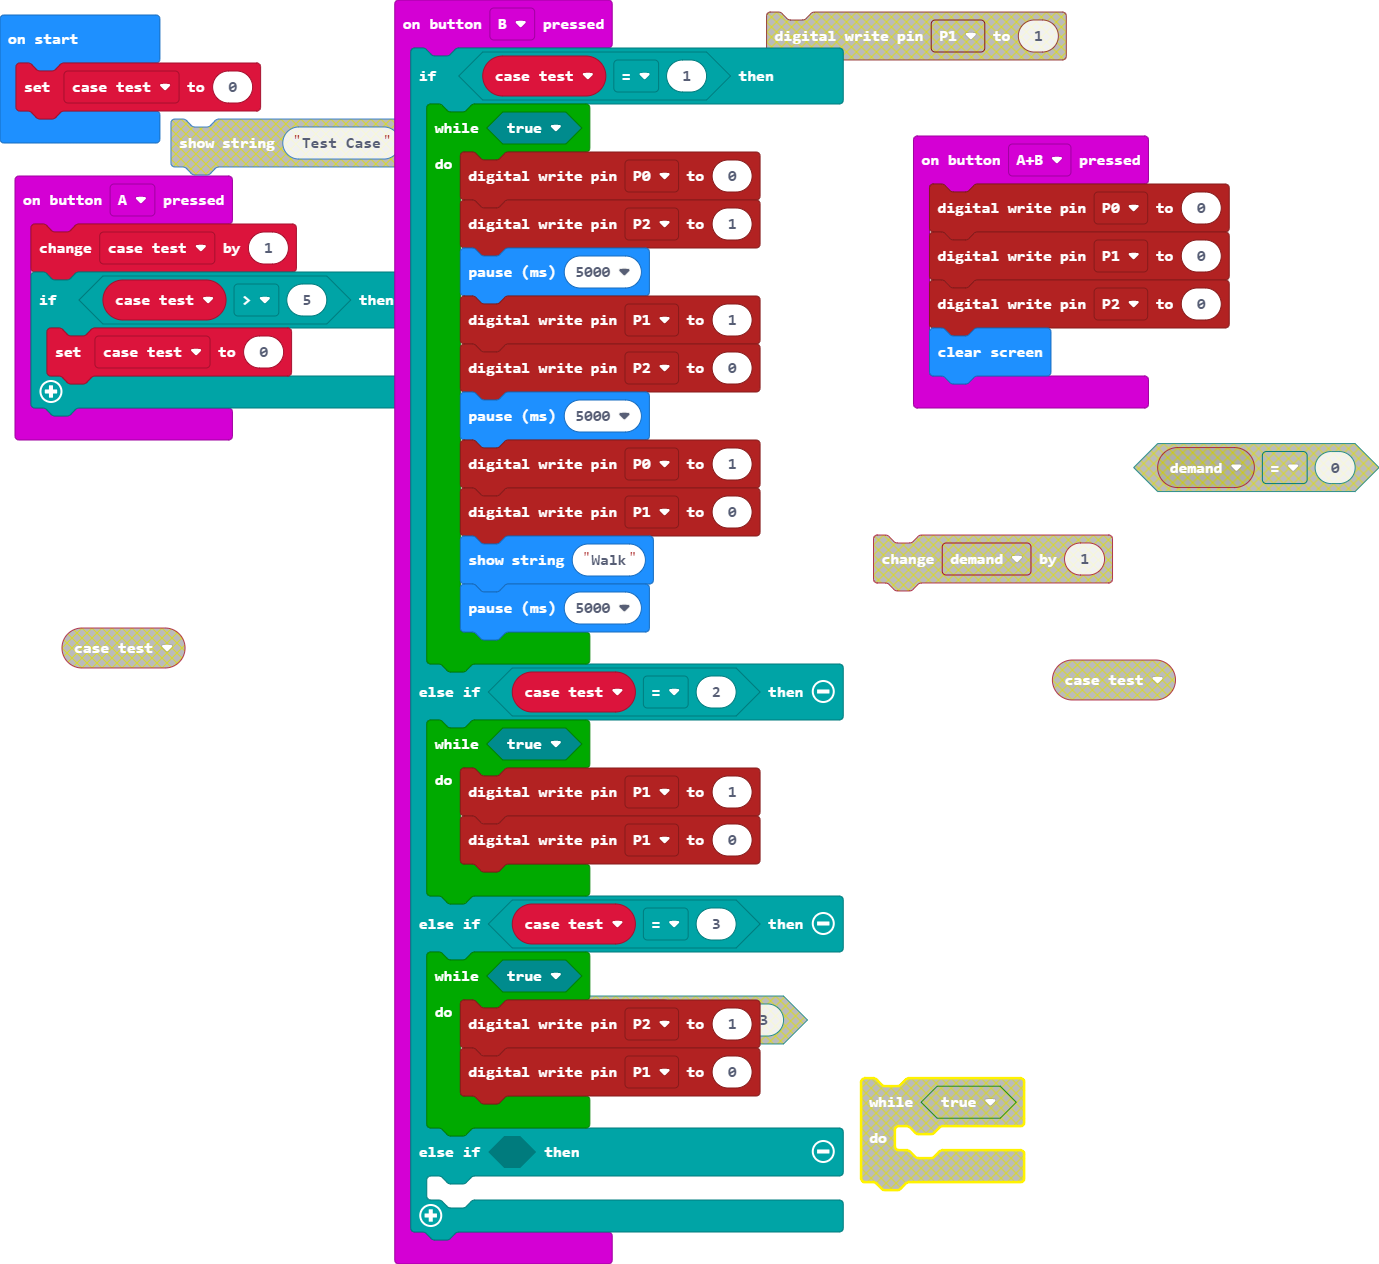
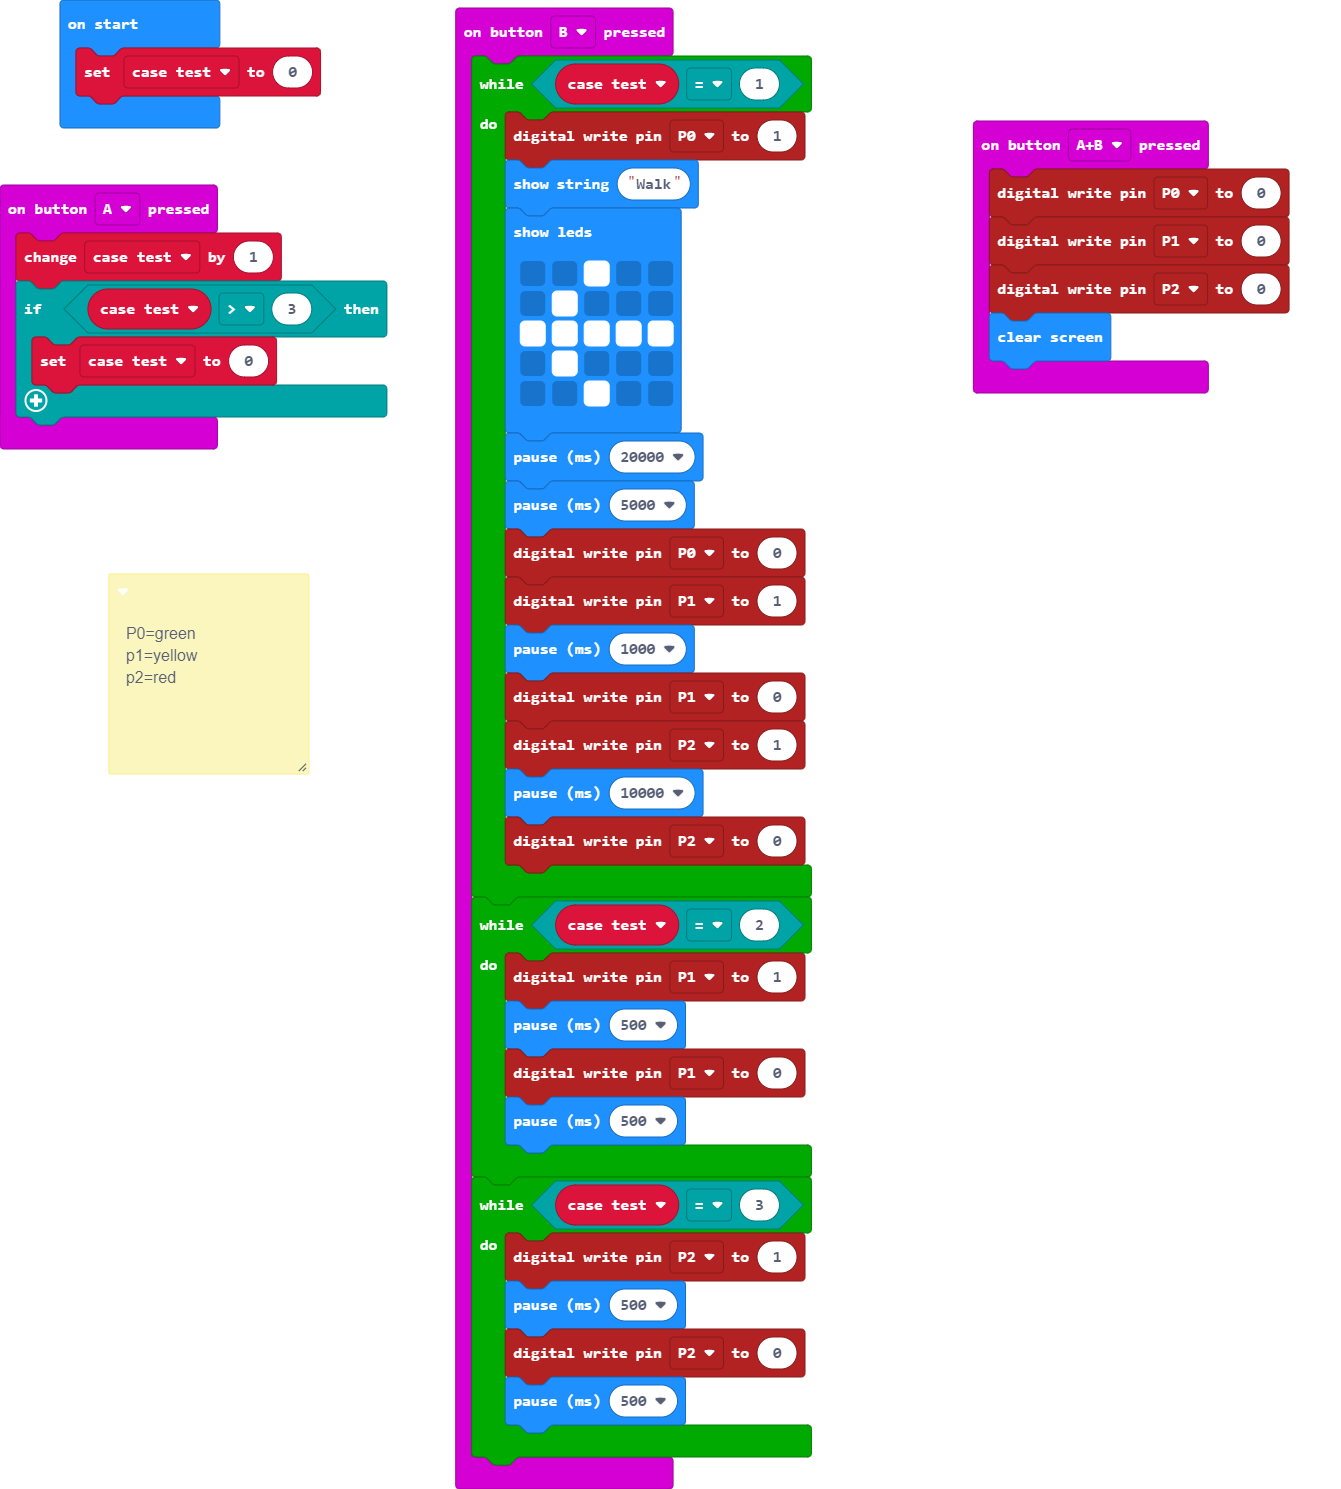
Update pxt.json, main.blocks, main.ts, main.py

diff --git a/main.ts b/main.ts
@@ -1,6 +1,13 @@
+/**
+ * P0=green
+ * 
+ * p1=yellow
+ * 
+ * p2=red
+ */
 input.onButtonPressed(Button.A, function () {
     case_test += 1
-    if (case_test > 5) {
+    if (case_test > 3) {
         case_test = 0
     }
 })
@@ -11,31 +18,37 @@ input.onButtonPressed(Button.AB, function () {
     basic.clearScreen()
 })
 input.onButtonPressed(Button.B, function () {
-    if (case_test == 1) {
-        while (true) {
-            pins.digitalWritePin(DigitalPin.P0, 0)
-            pins.digitalWritePin(DigitalPin.P2, 1)
-            basic.pause(5000)
-            pins.digitalWritePin(DigitalPin.P1, 1)
-            pins.digitalWritePin(DigitalPin.P2, 0)
-            basic.pause(5000)
-            pins.digitalWritePin(DigitalPin.P0, 1)
-            pins.digitalWritePin(DigitalPin.P1, 0)
-            basic.showString("Walk")
-            basic.pause(5000)
-        }
-    } else if (case_test == 2) {
-        while (true) {
-            pins.digitalWritePin(DigitalPin.P1, 1)
-            pins.digitalWritePin(DigitalPin.P1, 0)
-        }
-    } else if (case_test == 3) {
-        while (true) {
-            pins.digitalWritePin(DigitalPin.P2, 1)
-            pins.digitalWritePin(DigitalPin.P1, 0)
-        }
-    } else if (false) {
-    	
+    while (case_test == 1) {
+        pins.digitalWritePin(DigitalPin.P0, 1)
+        basic.showString("Walk")
+        basic.showLeds(`
+            . . # . .
+            . # . . .
+            # # # # #
+            . # . . .
+            . . # . .
+            `)
+        basic.pause(20000)
+        basic.pause(5000)
+        pins.digitalWritePin(DigitalPin.P0, 0)
+        pins.digitalWritePin(DigitalPin.P1, 1)
+        basic.pause(1000)
+        pins.digitalWritePin(DigitalPin.P1, 0)
+        pins.digitalWritePin(DigitalPin.P2, 1)
+        basic.pause(10000)
+        pins.digitalWritePin(DigitalPin.P2, 0)
+    }
+    while (case_test == 2) {
+        pins.digitalWritePin(DigitalPin.P1, 1)
+        basic.pause(500)
+        pins.digitalWritePin(DigitalPin.P1, 0)
+        basic.pause(500)
+    }
+    while (case_test == 3) {
+        pins.digitalWritePin(DigitalPin.P2, 1)
+        basic.pause(500)
+        pins.digitalWritePin(DigitalPin.P2, 0)
+        basic.pause(500)
     }
 })
 let case_test = 0

diff --git a/main.py b/main.py
@@ -1,0 +1,58 @@
+"""
+
+P0=green
+
+p1=yellow
+
+p2=red
+
+"""
+
+def on_button_pressed_a():
+    global case_test
+    case_test += 1
+    if case_test > 3:
+        case_test = 0
+input.on_button_pressed(Button.A, on_button_pressed_a)
+
+def on_button_pressed_ab():
+    pins.digital_write_pin(DigitalPin.P0, 0)
+    pins.digital_write_pin(DigitalPin.P1, 0)
+    pins.digital_write_pin(DigitalPin.P2, 0)
+    basic.clear_screen()
+input.on_button_pressed(Button.AB, on_button_pressed_ab)
+
+def on_button_pressed_b():
+    while case_test == 1:
+        pins.digital_write_pin(DigitalPin.P0, 1)
+        basic.show_string("Walk")
+        basic.show_leds("""
+            . . # . .
+            . # . . .
+            # # # # #
+            . # . . .
+            . . # . .
+            """)
+        basic.pause(20000)
+        basic.pause(5000)
+        pins.digital_write_pin(DigitalPin.P0, 0)
+        pins.digital_write_pin(DigitalPin.P1, 1)
+        basic.pause(1000)
+        pins.digital_write_pin(DigitalPin.P1, 0)
+        pins.digital_write_pin(DigitalPin.P2, 1)
+        basic.pause(10000)
+        pins.digital_write_pin(DigitalPin.P2, 0)
+    while case_test == 2:
+        pins.digital_write_pin(DigitalPin.P1, 1)
+        basic.pause(500)
+        pins.digital_write_pin(DigitalPin.P1, 0)
+        basic.pause(500)
+    while case_test == 3:
+        pins.digital_write_pin(DigitalPin.P2, 1)
+        basic.pause(500)
+        pins.digital_write_pin(DigitalPin.P2, 0)
+        basic.pause(500)
+input.on_button_pressed(Button.B, on_button_pressed_b)
+
+case_test = 0
+case_test = 0
